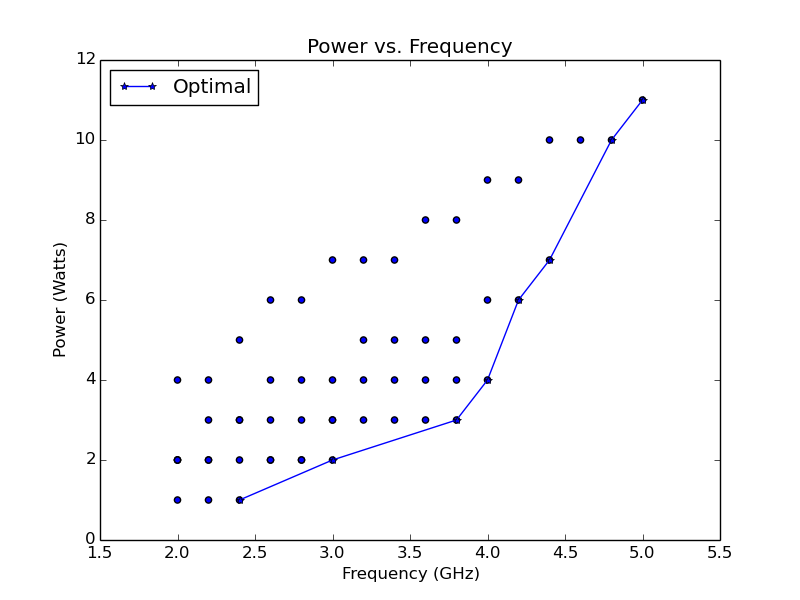
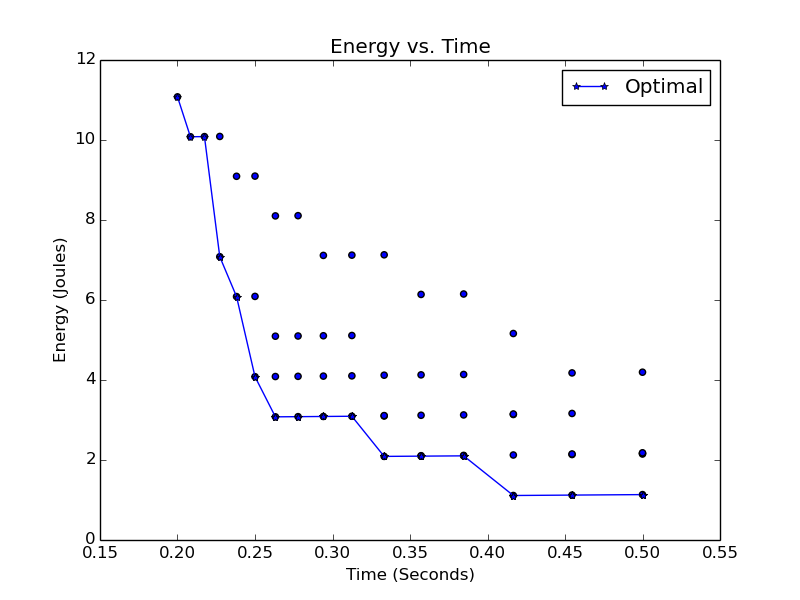
Updated energy vs. time graph.

diff --git a/hw1/power_perf.py b/hw1/power_perf.py
@@ -76,57 +76,63 @@ freq_vdd = [(2, .9, 1),
 
 x = []
 y = []
-freq = {}
+time_dict = {}
 for data in freq_vdd:
-    y.append(data[2])
-    x.append(data[0])
+    time = 1.0/data[0]
+    energy = data[2] + .3 * data[1] * time
+    y.append(energy)
+    x.append(time)
 
-    if data[0] not in freq:
-        freq[data[0]] = []
+    if time not in time_dict:
+        time_dict[time] = []
 
-    freq[data[0]].append(data[2])
+    time_dict[time].append(energy)
 
 # Get our optimal power plot
-min_power = []
+min_energy = []
 for f in x:
-    min_w = min(freq[f])
-    min_power.append(min_w)
+    print time_dict[f]
+    min_p = min(time_dict[f])
+    print min_p
+    min_energy.append(min_p)
 
+print min_energy
 # Get our optimal points
-pareto_optimal_freq = []
-paraeto_optimal_power = []
+pareto_optimal_time = []
+paraeto_optimal_energy = []
 for idx in range(len(x)):
     f = x[idx]
-    power = min_power[idx]
+    power = min_energy[idx]
 
     # If its the same power and higher freq., it's strictly better
     try:
-        power_idx = paraeto_optimal_power.index(power)
-        if freq > pareto_optimal_freq[power_idx]:
-            pareto_optimal_freq[power_idx] = f
+        power_idx = paraeto_optimal_energy.index(power)
+        if time_dict < pareto_optimal_freq[power_idx]:
+            pareto_optimal_time[power_idx] = f
     except:
-        pareto_optimal_freq.append(f)
-        paraeto_optimal_power.append(power)
+        pareto_optimal_time.append(f)
+        paraeto_optimal_energy.append(power)
 
 # Plot our graph
 plt.scatter(x, y)
-plt.plot(pareto_optimal_freq, paraeto_optimal_power, "*-", label="Optimal")
-plt.title("Power vs. Frequency")
-plt.ylabel("Power (Watts)")
-plt.xlabel("Frequency (GHz)")
-plt.legend(loc="upper left")
+plt.plot(pareto_optimal_time, paraeto_optimal_energy, "*-", label="Optimal")
+plt.title("Energy vs. Time")
+plt.ylabel("Energy (Joules)")
+plt.xlabel("Time (Seconds)")
+plt.legend(loc="upper right")
 plt.savefig('power_perf.png')
 
 # Figure out the minimal energy
 instructions = 1000000000
 min_joules = []
-for f in freq:
+for f in time_dict:
     ins_sec = f * 1000000000.0
-    min_w = min(freq[f])
-    watts = min_w
+    min_p = min(time_dict[f])
+    energy = min_p
 
     time_per_core = instructions / ins_sec
 
+    time_per_core = f
     # print "Time per core @ %1.1fGhz: %f" % (f, time_per_core)
 
     # How many cores?
@@ -135,11 +141,11 @@ for f in freq:
         cores += 1
 
     # How much energy? (*cores/cores cancel out)
-    joules = watts * time_per_core
+    joules = energy * time_per_core
 
     # print "Use %d cores and %f Jouels" % (cores, joules)
 
-    min_joules.append((f, cores, joules))
+    min_joules.append((1/f, cores, joules))
 
 for t in sorted(min_joules, key=lambda x: x[2]):
 
